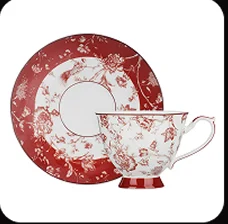
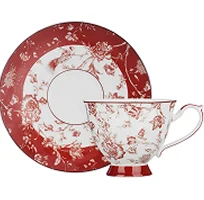
Блок 6: подписи, «+20%», счётчик и кнопка на одной линии; фото с прямыми углами без рамки; кнопка листания — залитый круг с «пульсом»

diff --git a/styles.css b/styles.css
@@ -758,10 +758,10 @@ a { color: inherit; text-decoration: none; }
   font: 300 calc(20 * var(--u)) / 1.2 Inter, sans-serif; letter-spacing: .03em; color: #BDB7B1; white-space: nowrap; }
 .story__scroll:hover { color: #E8DCC8; }
 /* круглая кнопка-значок со стрелкой и «пульсом»: видно, что сюда нажимать */
-.story__tap { position: relative; display: grid; place-items: center; width: calc(84 * var(--u)); height: calc(84 * var(--u)); border-radius: 50%; transition: background-color .3s ease; } /* без статичного кружка — только «пульс» */
+.story__tap { position: relative; display: grid; place-items: center; width: calc(84 * var(--u)); height: calc(84 * var(--u)); border-radius: 50%; background: color-mix(in srgb, currentColor 16%, transparent); transition: background-color .3s ease; } /* залитый полупрозрачный круг + «пульс» */
 .story__tap::before { content: ""; position: absolute; inset: -1px; border-radius: 50%; border: 1px solid currentColor; animation: tap-pulse 2s ease-out infinite; }
 .story__tap .hint-arrow { width: calc(34 * var(--u)); }
-.story__scroll:hover .story__tap { background: rgba(189, 183, 177, .14); }
+.story__scroll:hover .story__tap, .case__hint:hover .story__tap, .apx__scroll:hover .story__tap { background: color-mix(in srgb, currentColor 28%, transparent); }
 @keyframes tap-pulse { 0% { transform: scale(1); opacity: .7; } 100% { transform: scale(1.55); opacity: 0; } }
 @media (prefers-reduced-motion: reduce) { .story__tap::before { animation: none; } }
 /* «Тогда» / «Сейчас» — Inter Light крупнее заголовка, в полутоне, справа — посередине между хедером и столом */
@@ -828,7 +828,7 @@ a { color: inherit; text-decoration: none; }
 .case__head { position: absolute; z-index: 2; left: calc(60 * var(--u)); top: calc(104 * var(--u)); width: calc(900 * var(--u)); }
 .case__kicker { margin: calc(4 * var(--u)) 0 0; font-weight: 400; font-size: calc(22.31 * var(--u)); letter-spacing: -.02em; color: #BDB7B1; }
 /* результат кейса — под крупным фото, по центру: цифра шрифтом сайта (Wulkan), подпись и пояснение */
-.case__result { position: absolute; z-index: 2; right: calc(60 * var(--u)); top: calc(800 * var(--u)); width: calc(616 * var(--u)); display: flex; flex-direction: column; align-items: center; gap: calc(12 * var(--u)); text-align: center; color: #BDB7B1; }
+.case__result { position: absolute; z-index: 2; right: calc(60 * var(--u)); top: auto; bottom: calc(94 * var(--u)); width: calc(616 * var(--u)); display: flex; flex-direction: column; align-items: center; gap: calc(12 * var(--u)); text-align: center; color: #BDB7B1; }
 .case__result p { margin: 0; }
 .case__num { font-family: var(--display); font-style: italic; font-weight: 500; font-size: calc(120 * var(--u)); line-height: 1.1; letter-spacing: calc(-2 * var(--u)); text-box: trim-both cap alphabetic; } /* как «30+» в «Обо мне» */
 .case__num span { font-size: calc(122 * var(--u)); }
@@ -851,8 +851,8 @@ a { color: inherit; text-decoration: none; }
 .case__ghost { position: absolute; z-index: 0; left: calc((100% - 654 * var(--u)) / 2 + 230 * var(--u)); top: calc(250 * var(--u)); margin: 0; pointer-events: none; white-space: nowrap;
   font-weight: 300; font-size: calc(230 * var(--u)); line-height: 1; letter-spacing: -.03em; color: rgba(189, 183, 177, .2); }   /* в полутоне, на заднем плане — в свободной полосе над сеткой, у крупного фото */
 .case__page--shot .case__shot { position: absolute; z-index: 1; right: calc(60 * var(--u)); top: calc(157 * var(--u)); width: calc(616 * var(--u)); height: calc(616 * var(--u));
-  aspect-ratio: auto; margin: 0; border: 1px solid rgba(255, 250, 250, .55); background: none; overflow: visible; display: flex; align-items: center; justify-content: center; }
-.case__page--shot .case__shot img { display: block; width: auto; height: auto; max-width: 100%; max-height: 100%; border-radius: calc(16 * var(--u)); }
+  aspect-ratio: auto; margin: 0; border: 0; background: none; overflow: visible; display: flex; align-items: center; justify-content: center; }
+.case__page--shot .case__shot img { display: block; width: auto; height: auto; max-width: 100%; max-height: 100%; border-radius: 0; } /* крупное фото — как портрет во втором блоке: без рамки и скругления */
 /* сетка 3×2: тексты и фото в шахматном порядке; фото целиком, вписаны в квадрат */
 /* три фото с подписями: нижнее левое — по левому краю заголовка, нижнее правое — у крупного фото,
    верхнее — посередине между ними; нижние стоят на одной линии */
@@ -860,11 +860,11 @@ a { color: inherit; text-decoration: none; }
 .case__item { position: absolute; width: min-content; display: flex; flex-direction: column; align-items: flex-start; gap: calc(14 * var(--u)); } /* ширина — по фото, подпись переносится по ней */
 .case__item img { display: block; width: auto; max-width: none; height: calc(320 * var(--u)); }
 .case__item p { margin: 0; font-weight: 400; font-size: calc(26 * var(--u)); line-height: 1.2; letter-spacing: -.01em; color: #BDB7B1; }
-.case__item--left { left: calc(60 * var(--u)); top: calc(590 * var(--u)); }
-.case__item--right { right: calc(714 * var(--u)); top: calc(590 * var(--u)); }
+.case__item--left { left: calc(60 * var(--u)); top: auto; bottom: calc(94 * var(--u)); }
+.case__item--right { right: calc(714 * var(--u)); top: auto; bottom: calc(94 * var(--u)); }
 .case__item--top { left: calc((100% - 654 * var(--u)) / 2 - 160 * var(--u)); top: calc(240 * var(--u)); }
 /* карточки «После» — вертикальные: высота та же, ширина по пропорции, края скруглены у самой картинки */
-.case__item img { border-radius: calc(16 * var(--u)); }
+.case__item img { border-radius: 0; box-shadow: 0 calc(18 * var(--u)) calc(40 * var(--u)) calc(-18 * var(--u)) rgba(0, 0, 0, .6); }
 
 /* «Итог»: три цифры с вертикальными разделителями из макета */
 .case__page--stats { inset: calc(300 * var(--u)) calc(60 * var(--u)) calc(150 * var(--u)); gap: calc(55 * var(--u)); }
@@ -876,9 +876,9 @@ a { color: inherit; text-decoration: none; }
 
 /* счётчик и стрелки — те же, что в «Моём подходе» (классы apx__*); здесь только место и цвет */
 .case { --ink: #BDB7B1; }
-.case__nav { position: absolute; z-index: 2; left: calc((100% - 654 * var(--u)) / 2 - 160 * var(--u) + 51 * var(--u)); top: auto; bottom: calc(6 * var(--u)); }
+.case__nav { position: absolute; z-index: 2; left: calc((100% - 654 * var(--u)) / 2 - 160 * var(--u) + 51 * var(--u)); top: auto; bottom: calc(94 * var(--u)); height: calc(104 * var(--u)); }
 /* «дальше» — круглая стрелка с «пульсом», как на «Тогда» */
-.case__hint { position: absolute; z-index: 2; right: calc(60 * var(--u)); bottom: calc(16 * var(--u)); margin: 0; padding: 0; background: none; border: 0; cursor: pointer;
+.case__hint { position: absolute; z-index: 2; right: auto; left: calc((100% - 654 * var(--u)) / 2 - 160 * var(--u) + 51 * var(--u) + 250 * var(--u)); bottom: calc(80 * var(--u)); margin: 0; padding: 0; background: none; border: 0; cursor: pointer;
   color: #BDB7B1; opacity: 0; transition: opacity .6s ease; }
 .case__hint .story__tap { width: calc(72 * var(--u)); height: calc(72 * var(--u)); }
 .case__hint .hint-arrow { width: calc(30 * var(--u)); }
@@ -905,10 +905,10 @@ a { color: inherit; text-decoration: none; }
   .case__page--shot { display: flex; position: relative; }
   .case__ghost { display: block; position: relative; left: auto; right: auto; top: auto; margin: 0 0 -0.42em; font-weight: 300; font-size: clamp(56px, 17vw, 110px); line-height: 1; letter-spacing: -.03em; color: rgba(189, 183, 177, .22); }
   .case__page--shot .case__shot { position: relative; left: auto; right: auto; top: auto; width: 100%; height: auto; border: 0; }
-  .case__page--shot .case__shot img { width: 100%; max-height: none; border-radius: 14px; }
+  .case__page--shot .case__shot img { width: 100%; max-height: none; border-radius: 0; }
   .case__grid { position: static; display: grid; grid-template-columns: 1fr 1fr; gap: 20px 12px; }
   .case__item { position: static; width: auto; gap: 8px; align-items: stretch; }
-  .case__item img { width: 100%; height: auto; border-radius: 10px; }
+  .case__item img { width: 100%; height: auto; border-radius: 0; }
   .case__item p { font-size: clamp(14px, 3.9vw, 17px); }
   .case__item--top { grid-column: 1 / -1; width: 60%; }
   .case__page--stats { inset: auto; gap: 28px; }

diff --git a/index.html b/index.html
@@ -18,7 +18,7 @@
 <link rel="preconnect" href="https://fonts.gstatic.com" crossorigin>
 <link href="https://fonts.googleapis.com/css2?family=Inter:ital,wght@0,300;0,400;0,500;0,700;1,300;1,400&family=Playfair+Display:ital,wght@1,500&family=Great+Vibes&family=Cormorant+Garamond:wght@300;400;500&family=Tenor+Sans&display=swap" rel="stylesheet">
 <link rel="preload" as="image" href="img/person.webp?v=2">
-<link rel="stylesheet" href="styles.css?v=166">
+<link rel="stylesheet" href="styles.css?v=169">
 </head>
 <body>
 <!-- Общая шапка для всего сайта: бургер-меню и монограмма слева, кнопка «Связаться со мной» справа -->
@@ -336,16 +336,16 @@
       <p class="case__ghost" aria-hidden="true">До</p>
       <figure class="case__shot"><img src="img/case/before-main.webp" width="776" height="776" alt="До: чайная пара на белом фоне, без оформления" loading="lazy"></figure>
       <ul class="case__grid">
-        <li class="case__item case__item--top"><img src="img/case/before-2.webp" width="224" height="224" alt="Исходное фото: чашка крупно" loading="lazy"><p>Вопросы покупателя не&nbsp;закрыты</p></li>
-        <li class="case__item case__item--left"><img src="img/case/before-3.webp" width="228" height="224" alt="Исходное фото: чашка на блюдце" loading="lazy"><p>Нет заголовка и&nbsp;описания</p></li>
-        <li class="case__item case__item--right"><img src="img/case/before-1.webp" width="228" height="224" alt="Исходное фото: блюдце и чашка сверху" loading="lazy"><p>Конкурирует только ценой</p></li>
+        <li class="case__item case__item--top"><img src="img/case/before-2.webp?v=2" width="200" height="200" alt="Исходное фото: чашка крупно" loading="lazy"><p>Вопросы покупателя не&nbsp;закрыты</p></li>
+        <li class="case__item case__item--left"><img src="img/case/before-3.webp?v=2" width="204" height="200" alt="Исходное фото: чашка на блюдце" loading="lazy"><p>Нет заголовка и&nbsp;описания</p></li>
+        <li class="case__item case__item--right"><img src="img/case/before-1.webp?v=2" width="204" height="200" alt="Исходное фото: блюдце и чашка сверху" loading="lazy"><p>Конкурирует только ценой</p></li>
       </ul>
     </article>
     <article class="case__page case__page--shot" aria-label="После оформления">
       <p class="case__ghost" aria-hidden="true">После</p>
       <figure class="case__shot"><img src="img/case/after-main.webp?v=2" width="900" height="1200" alt="После: главная карточка «Чайная пара „Грёзы“» на красном фоне" loading="lazy"></figure>
       <ul class="case__grid">
-        <li class="case__item case__item--top"><img src="img/case/after-1.webp" width="300" height="400" alt="Слайд «Утончённый дизайн»" loading="lazy"><p>Восприятие товара поднято в&nbsp;премиум-сегмент</p></li>
+        <li class="case__item case__item--top"><img src="img/case/after-1.webp?v=2" width="280" height="380" alt="Слайд «Утончённый дизайн»" loading="lazy"><p>Восприятие товара поднято в&nbsp;премиум-сегмент</p></li>
         <li class="case__item case__item--left"><img src="img/case/after-2.webp?v=2" width="600" height="800" alt="Слайд «Сохраняет тепло напитка»" loading="lazy"><p>Закрыты вопросы покупателя</p></li>
         <li class="case__item case__item--right"><img src="img/case/after-3.webp?v=2" width="600" height="800" alt="Слайд «Идеальный подарок»" loading="lazy"><p>Добавлен подарочный сценарий</p></li>
       </ul>
